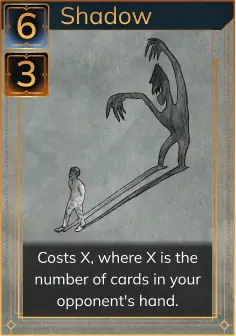
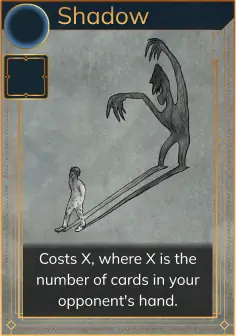
Card stats appear and arent prerendered

diff --git a/client/src/lib/cardImage.ts b/client/src/lib/cardImage.ts
@@ -9,8 +9,8 @@ import BaseScene from '../scene/baseScene'
 import BBCodeText from 'phaser3-rex-plugins/plugins/bbcodetext'
 
 // The offset of cost / points
-const statOffset1 = Flags.mobile ? 15 : 25
-const statOffset2 = Flags.mobile ? 42 : 77
+const statOffset1 = 26
+const statOffset2 = 77
 
 export class CardImage {
   scene: BaseScene
@@ -68,11 +68,10 @@ export class CardImage {
     this.txtCost = this.scene.add['rexBBCodeText'](
       -Space.cardWidth / 2 + statOffset1,
       -Space.cardHeight / 2 + statOffset1,
-      `${card.cost}`,
+      `[b]${card.cost}[/b]`,
       BBStyle.cardStats,
     )
       .setOrigin(0.5)
-      .setAlpha(card.beta ? 1 : 0.001)
       .on('pointerover', () =>
         hint.showText(`This card costs ${this.txtCost.text} breath to play.`),
       )
@@ -85,7 +84,7 @@ export class CardImage {
     this.txtPoints = this.scene.add['rexBBCodeText'](
       -Space.cardWidth / 2 + statOffset1,
       -Space.cardHeight / 2 + statOffset2,
-      `${card.points}`,
+      `[b]${card.points}[/b]`,
       BBStyle.cardStats,
     )
       .setOrigin(0.5)
@@ -249,13 +248,9 @@ export class CardImage {
     if (cost !== null) {
       this.cost = cost
 
-      if (!this.card.beta && cost === this.card.cost) {
-        this.txtCost.setAlpha(0.001)
-      } else {
-        this.txtCost.setAlpha(1)
-      }
-
-      this.txtCost.setText(`[stroke=${Color.cardStatChanged}]${cost}[/stroke]`)
+      this.txtCost.setText(
+        `[b][stroke=${Color.cardStatChanged}]${cost}[/stroke][/b]`,
+      )
     }
 
     return this
@@ -265,10 +260,9 @@ export class CardImage {
   setPoints(amt: number): CardImage {
     // TODO Generalize once it's not just pet and child that have dynamic version
     if (this.card.points !== this.card.basePoints || this.card.beta) {
-      this.txtPoints.setAlpha(1)
-      this.txtPoints.setText(`[stroke=${Color.cardStatChanged}]${amt}[/stroke]`)
-    } else {
-      this.txtPoints.setAlpha(0.001)
+      this.txtPoints.setText(
+        `[b][stroke=${Color.cardStatChanged}]${amt}[/stroke][/b]`,
+      )
     }
 
     return this
@@ -545,8 +539,8 @@ export class TutorialCardImage extends CardImage {
   // Takes a callback for when each component has been hovered
   highlightComponents(callback: () => void) {
     // Make cost and points visible
-    this.txtCost.setAlpha(1).setText(`${this.card.cost}`)
-    this.txtPoints.setAlpha(1).setText(`${this.card.points}`)
+    this.txtCost.setText(`${this.card.cost}`)
+    this.txtPoints.setText(`${this.card.points}`)
 
     // Define components
     this.components = [this.txtCost, this.txtPoints, ...this.keywords]
@@ -562,11 +556,6 @@ export class TutorialCardImage extends CardImage {
 
       // When a component is hovered, stop highlighting and check if all highlights are gone
       component.setInteractive().on('pointerover', () => {
-        // Make text invisible (Normal)
-        if (component === this.txtCost || component === this.txtPoints) {
-          component.setAlpha(0.001)
-        }
-
         // Remove highlight
         postFxPlugin['remove'](component)
 

diff --git a/client/src/settings/style.ts b/client/src/settings/style.ts
@@ -165,11 +165,8 @@ export const BBStyle: Record<string, any> = {
   // Cost / Points shown above each card
   cardStats: {
     fontFamily: mainFont,
-    fontSize: Flags.mobile ? '20px' : '36px',
+    fontSize: '30px',
     color: Color.cardText,
-    backgroundColor: Color.cardTextBackground,
-    backgroundHorizontalGradient: false,
-    strokeThickness: 3,
     padding: {
       // left: 5,
       // right: 5,

diff --git a/client/src/scene/builderRegions/catalog.ts b/client/src/scene/builderRegions/catalog.ts
@@ -43,7 +43,7 @@ export default class CatalogRegion {
 
     // Add each card
     let pool = Flags.devCardsEnabled
-      ? [...Catalog.collectibleCards, ...Catalog.betaCards]
+      ? Catalog.collectibleCards.filter((c) => c.name === 'Dagger') //[...Catalog.collectibleCards, ...Catalog.betaCards]
       : Catalog.collectibleCards
     pool = pool.sort((a, b) => a.cost - b.cost)
 

diff --git a/client/src/app.ts b/client/src/app.ts
@@ -34,7 +34,7 @@ const config: Phaser.Types.Core.GameConfig = {
   height: Space.windowHeight,
   parent: 'game',
   disableContextMenu: true,
-  pixelArt: true,
+  // pixelArt: true,
   powerPreference: 'high-performance',
   transparent: true,
   dom: {
